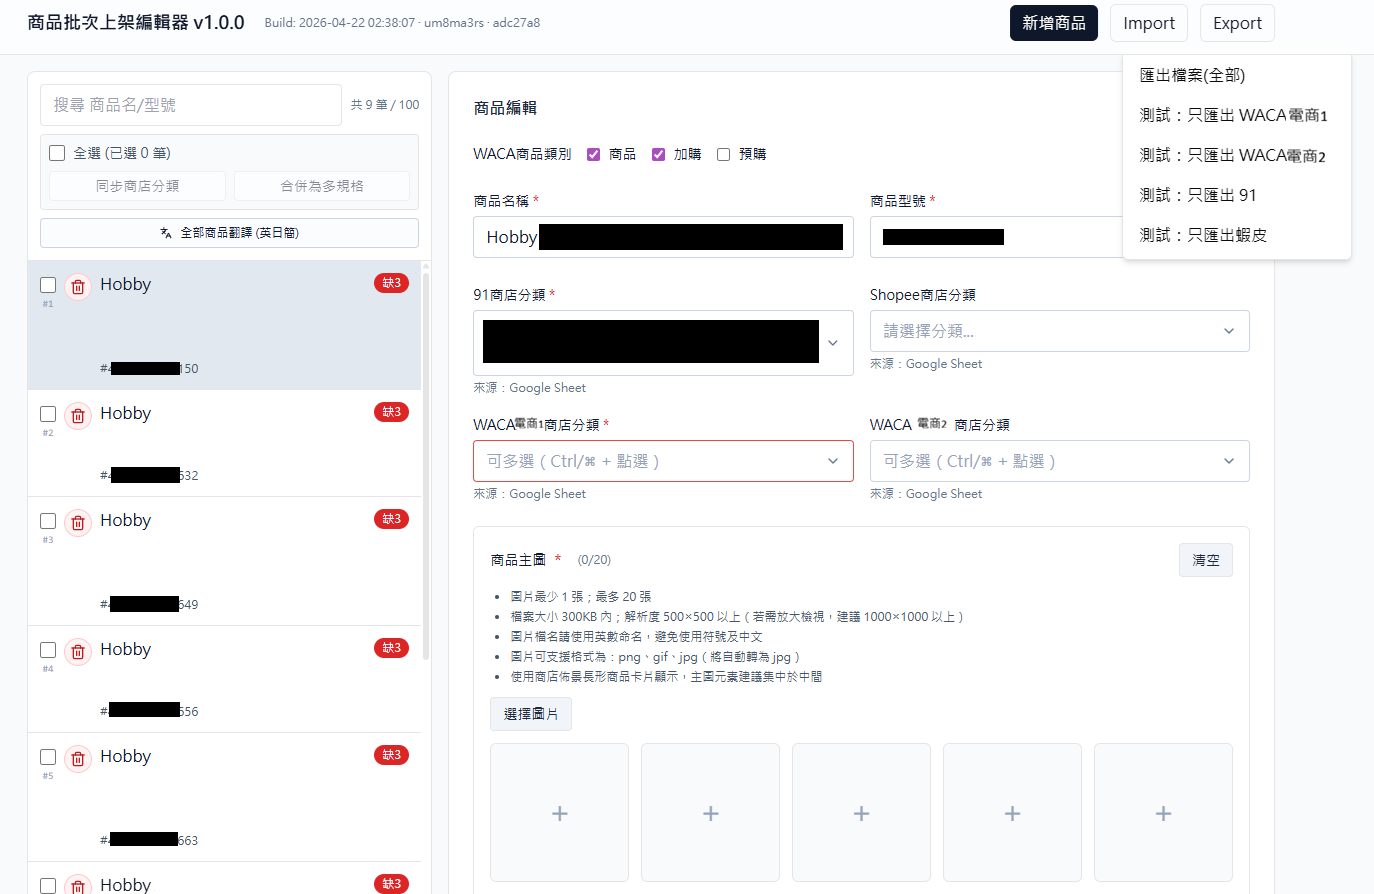
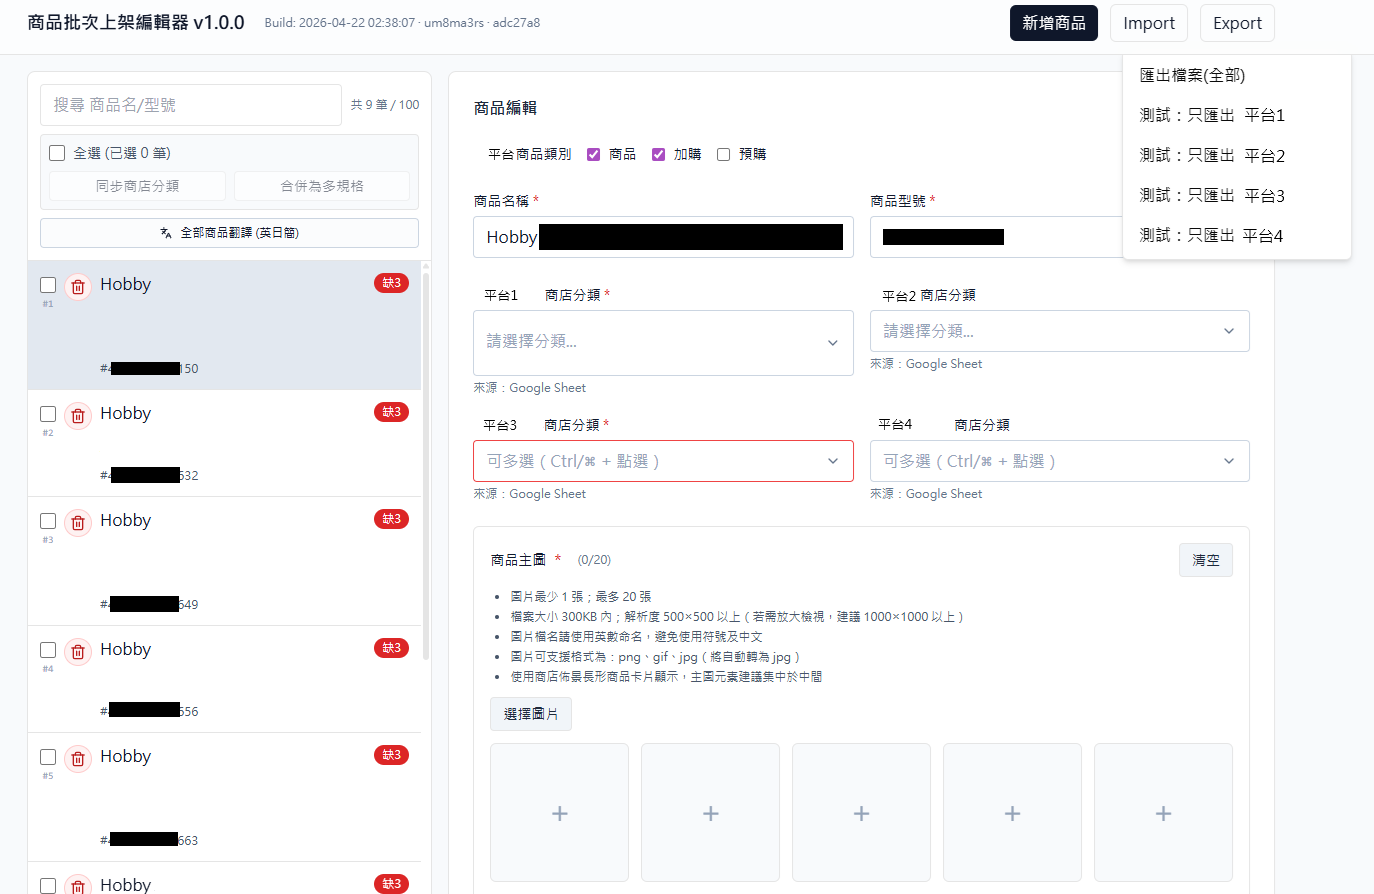
Replace platform names with codenames (平台1–4), fix page numbering (03–15/15)

diff --git a/index.html b/index.html
@@ -305,7 +305,7 @@
       </div>
       <div class="meta">
         <div><div class="k">Version</div><div class="v">v1.0.0 · um8ma3rs</div></div>
-        <div><div class="k">Platforms</div><div class="v">蝦皮 · WACA電商1 · WACA電商2 · 91APP</div></div>
+        <div><div class="k">Platforms</div><div class="v">平台1 · 平台2 · 平台3 · 平台4</div></div>
         <div><div class="k">Runtime</div><div class="v">Docker · auto-update</div></div>
       </div>
     </div>
@@ -313,7 +313,7 @@
       <div class="badge">One tool · four platforms</div>
       <div style="display:flex;flex-direction:column;gap:32px;z-index:1">
         <div class="h2" style="color:#F3EFE6;font-size:92px;line-height:1">九個<br>亮點<br><span style="color:var(--accent)">，逐一展開。</span></div>
-        <div style="font-family:var(--mono);font-size:22px;color:#8C96A6;letter-spacing:.14em">SHOPEE · WACA · 91APP</div>
+        <div style="font-family:var(--mono);font-size:22px;color:#8C96A6;letter-spacing:.14em">平台1 · 平台2 · 平台3 · 平台4</div>
       </div>
       <div class="blurb">從零開始，一個人設計架構、寫程式、測試、部署、維護——<br>根據實際業務一點一點刻出來的。</div>
     </div>
@@ -328,8 +328,8 @@
   </div>
 
   <div style="flex:1;display:grid;grid-template-columns:1fr 1fr 1fr;gap:28px;align-content:center">
-    <a style="text-decoration:none;color:inherit" class="card"><div class="idx">SPOTLIGHT · 01</div><h4>一鍵四平台匯出</h4><p>蝦皮 / WACA電商1 / WACA電商2 / 91APP — 一次產出四份檔案。</p></a>
-    <a style="text-decoration:none;color:inherit" class="card"><div class="idx">SPOTLIGHT · 02</div><h4>蝦皮定價機器人</h4><p>分段加成規則全自動套用，結尾自動進位到 0 / 5 / 9。</p></a>
+    <a style="text-decoration:none;color:inherit" class="card"><div class="idx">SPOTLIGHT · 01</div><h4>一鍵四平台匯出</h4><p>平台1 / 平台2 / 平台3 / 平台4 — 一次產出四份檔案。</p></a>
+    <a style="text-decoration:none;color:inherit" class="card"><div class="idx">SPOTLIGHT · 02</div><h4>平台1定價機器人</h4><p>分段加成規則全自動套用，結尾自動進位到 0 / 5 / 9。</p></a>
     <a style="text-decoration:none;color:inherit" class="card"><div class="idx">SPOTLIGHT · 03</div><h4>勾選就能合體</h4><p>多筆單規格 →「合併為多規格」按一下完成。</p></a>
     <a style="text-decoration:none;color:inherit" class="card"><div class="idx">SPOTLIGHT · 04</div><h4>批次改分類</h4><p>一筆設好，幾百筆四平台同步，一秒套用。</p></a>
     <a style="text-decoration:none;color:inherit" class="card"><div class="idx">SPOTLIGHT · 05</div><h4>圖片自動對號入座</h4><p>750px 規格化、FTP 上傳、ZIP 打包一條龍。</p></a>
@@ -346,7 +346,7 @@
 <section data-screen-label="02 Problem">
   <div class="frame-head">
     <div class="left"><span class="tag warn">Before</span><span class="eyebrow warn"><span class="dot"></span>你以為上架商品很簡單？</span></div>
-    <div class="kicker">00 / Problem</div>
+    <div class="kicker">03 / 15</div>
   </div>
 
   <div class="cols-5-7">
@@ -360,12 +360,12 @@
     </div>
 
     <div class="steps" style="align-self:center">
-      <div class="step"><span class="n">01</span><span class="t">登入蝦皮後台，一格一格填</span><span class="tail"></span></div>
-      <div class="step"><span class="n">02</span><span class="t">登入 WACA 電商1，重複一次</span><span class="tail"></span></div>
-      <div class="step"><span class="n">03</span><span class="t">登入 WACA 電商2，重複一次</span><span class="tail"></span></div>
-      <div class="step"><span class="n">04</span><span class="t">登入 91APP，重複一次</span><span class="tail"></span></div>
+      <div class="step"><span class="n">01</span><span class="t">登入平台1後台，一格一格填</span><span class="tail"></span></div>
+      <div class="step"><span class="n">02</span><span class="t">登入 平台2，重複一次</span><span class="tail"></span></div>
+      <div class="step"><span class="n">03</span><span class="t">登入 平台3，重複一次</span><span class="tail"></span></div>
+      <div class="step"><span class="n">04</span><span class="t">登入 平台4，重複一次</span><span class="tail"></span></div>
       <div class="step"><span class="n">05</span><span class="t">圖片上傳到四個地方</span><span class="tail">各種格式</span></div>
-      <div class="step"><span class="n">06</span><span class="t">套用蝦皮特殊定價規則</span><span class="tail">易算錯</span></div>
+      <div class="step"><span class="n">06</span><span class="t">套用平台1特殊定價規則</span><span class="tail">易算錯</span></div>
       <div class="step"><span class="n">07</span><span class="t">逐欄位確認沒有填錯</span><span class="tail">易遺漏</span></div>
     </div>
   </div>
@@ -377,7 +377,7 @@
 <section data-screen-label="03 Mission">
   <div class="frame-head">
     <div class="left"><span class="tag accent">Mission</span><span class="eyebrow"><span class="dot"></span>這套系統的任務</span></div>
-    <div class="kicker">03 / 15</div>
+    <div class="kicker">04 / 15</div>
   </div>
 
   <div style="flex:1;display:flex;flex-direction:column;justify-content:center;gap:80px">
@@ -399,7 +399,7 @@
       <div class="arr" style="color:var(--accent)">→</div>
       <div class="box">
         <div class="t">四份檔案同時下載</div>
-        <div class="s">蝦皮 / WACA電商1 / WACA電商2 / 91APP</div>
+        <div class="s">平台1 / 平台2 / 平台3 / 平台4</div>
       </div>
     </div>
   </div>
@@ -411,7 +411,7 @@
 <section data-screen-label="04 Spotlight 01 — 一鍵四平台">
   <div class="frame-head">
     <div class="left"><span class="tag accent">Spotlight 01</span><span class="eyebrow"><span class="dot"></span>一鍵四平台匯出</span></div>
-    <div class="kicker">04 / 15</div>
+    <div class="kicker">05 / 15</div>
   </div>
 
   <div class="cols-7-5">
@@ -421,23 +421,23 @@
 
       <div class="four">
         <div class="pform">
-          <span class="tag" style="background:var(--accent-soft);color:var(--accent);border:none">Shopee</span>
-          <div class="name">蝦皮</div>
+          <span class="tag" style="background:var(--accent-soft);color:var(--accent);border:none">平台1</span>
+          <div class="name">平台1</div>
           <div class="fmt">.xlsx 官方模板<br>112 欄位自動填</div>
         </div>
         <div class="pform">
-          <span class="tag" style="background:var(--accent-soft);color:var(--accent);border:none">WACA</span>
-          <div class="name">電商1</div>
+          <span class="tag" style="background:var(--accent-soft);color:var(--accent);border:none">平台2</span>
+          <div class="name">平台2</div>
           <div class="fmt">獨立欄位格式<br>自有圖片處理</div>
         </div>
         <div class="pform">
-          <span class="tag" style="background:var(--accent-soft);color:var(--accent);border:none">WACA</span>
-          <div class="name">電商2</div>
+          <span class="tag" style="background:var(--accent-soft);color:var(--accent);border:none">平台3</span>
+          <div class="name">平台3</div>
           <div class="fmt">獨立分類樹<br>品牌色：綠色主題</div>
         </div>
         <div class="pform">
-          <span class="tag" style="background:var(--accent-soft);color:var(--accent);border:none">91APP</span>
-          <div class="name">91APP</div>
+          <span class="tag" style="background:var(--accent-soft);color:var(--accent);border:none">平台4</span>
+          <div class="name">平台4</div>
           <div class="fmt">Excel + 圖片 ZIP<br>打包下載</div>
         </div>
       </div>
@@ -459,16 +459,16 @@
 </section>
 
 <!-- ========== 05 SPOTLIGHT 02 — PRICING BOT ========== -->
-<section data-screen-label="05 Spotlight 02 — 蝦皮定價機器人">
+<section data-screen-label="05 Spotlight 02 — 平台1定價機器人">
   <div class="frame-head">
-    <div class="left"><span class="tag accent">Spotlight 02</span><span class="eyebrow"><span class="dot"></span>蝦皮定價機器人</span></div>
-    <div class="kicker">05 / 15</div>
+    <div class="left"><span class="tag accent">Spotlight 02</span><span class="eyebrow"><span class="dot"></span>平台1定價機器人</span></div>
+    <div class="kicker">06 / 15</div>
   </div>
 
   <div class="cols-5-7">
     <div style="display:flex;flex-direction:column;gap:32px">
       <div class="h2">不是亂加價，<br>是<span style="color:var(--accent)">有邏輯</span>的漲。</div>
-      <div class="body-lg">蝦皮的定價規則跟其他平台不一樣，每一檔價格區間的加成方式都不同。寫在程式裡，每筆自動套用，<b>不會算錯，也不會忘記</b>。</div>
+      <div class="body-lg">平台1的定價規則跟其他平台不一樣，每一檔價格區間的加成方式都不同。寫在程式裡，每筆自動套用，<b>不會算錯，也不會忘記</b>。</div>
       <div class="callout">
         <div class="lb">Note</div>
         <div class="body" style="color:var(--ink);font-size:24px">規則如果要調整——改一個地方，全部商品立刻跟著更新。</div>
@@ -502,7 +502,7 @@
 <section data-screen-label="06 Spotlight 03 — 勾選就能合體">
   <div class="frame-head">
     <div class="left"><span class="tag accent">Spotlight 03</span><span class="eyebrow"><span class="dot"></span>勾選就能合體</span></div>
-    <div class="kicker">06 / 15</div>
+    <div class="kicker">07 / 15</div>
   </div>
 
   <div class="cols-5-7">
@@ -544,19 +544,19 @@
 <section data-screen-label="07 Spotlight 04 — 批次改分類">
   <div class="frame-head">
     <div class="left"><span class="tag accent">Spotlight 04</span><span class="eyebrow"><span class="dot"></span>批次改分類</span></div>
-    <div class="kicker">07 / 15</div>
+    <div class="kicker">08 / 15</div>
   </div>
 
   <div class="cols-7-5">
     <div style="display:flex;flex-direction:column;gap:24px">
       <div class="h2">100 個商品，<br><span class="num accent">1 秒</span>全部改好。</div>
-      <div class="body-lg">一款商品要同時維護四個分類（蝦皮、WACA電商1、WACA電商2、91APP）。<br>設好第一筆，勾選全部，一鍵同步——幾百筆都是一秒的事。</div>
+      <div class="body-lg">一款商品要同時維護四個分類（平台1、平台2、平台3、平台4）。<br>設好第一筆，勾選全部，一鍵同步——幾百筆都是一秒的事。</div>
 
       <div class="compare">
         <div class="col before" style="padding:28px;gap:12px">
           <h5>Before — 一筆一筆改</h5>
           <ul>
-            <li>改完蝦皮再改 WACA，再改 91APP</li>
+            <li>改完平台1再改平台2 / 平台3，再改平台4</li>
             <li>切換頁面、等待載入、確認儲存</li>
             <li>漏改一個平台就錯位</li>
           </ul>
@@ -593,7 +593,7 @@
 <section data-screen-label="08 Spotlight 05 — 圖片自動對號入座">
   <div class="frame-head">
     <div class="left"><span class="tag accent">Spotlight 05</span><span class="eyebrow"><span class="dot"></span>圖片自動對號入座</span></div>
-    <div class="kicker">08 / 15</div>
+    <div class="kicker">09 / 15</div>
   </div>
 
   <div class="cols-4-8">
@@ -628,12 +628,12 @@
 
       <div class="four" style="grid-template-columns:1fr 1fr">
         <div class="pform" style="gap:10px">
-          <span class="tag" style="background:var(--accent-soft);color:var(--accent);border:none;align-self:flex-start">WACA / 蝦皮</span>
+          <span class="tag" style="background:var(--accent-soft);color:var(--accent);border:none;align-self:flex-start">平台1 / 平台2 / 平台3</span>
           <div class="name" style="font-size:26px">需要 圖片網址</div>
           <div class="fmt">FTP 上傳圖床 → 建立「商品編號 → 網址」對應表 → 匯出時自動填入</div>
         </div>
         <div class="pform" style="gap:10px">
-          <span class="tag" style="background:var(--accent-soft);color:var(--accent);border:none;align-self:flex-start">91APP</span>
+          <span class="tag" style="background:var(--accent-soft);color:var(--accent);border:none;align-self:flex-start">平台4</span>
           <div class="name" style="font-size:26px">需要 ZIP 壓縮檔</div>
           <div class="fmt">系統自動打包成 ZIP 一起下載，平台直接吃</div>
         </div>
@@ -653,7 +653,7 @@
 <section data-screen-label="09 Spotlight 06 — HTML 編輯器 + 翻譯">
   <div class="frame-head">
     <div class="left"><span class="tag accent">Spotlight 06</span><span class="eyebrow"><span class="dot"></span>HTML 編輯器 + 免費翻譯一條龍</span></div>
-    <div class="kicker">09 / 15</div>
+    <div class="kicker">10 / 15</div>
   </div>
 
   <div class="cols-5-7" style="gap:60px;padding-bottom:60px">
@@ -664,7 +664,7 @@
 
       <div style="display:flex;flex-direction:column;gap:12px">
         <div class="card" style="padding:16px 24px;gap:4px"><div class="idx" style="font-size:16px">ABILITY · 01 · 文字樣式自由調整</div><p style="font-size:20px;margin:0">字體大小、顏色、粗體、對齊——全部可視化。</p></div>
-        <div class="card" style="padding:16px 24px;gap:4px"><div class="idx" style="font-size:16px">ABILITY · 02 · 品牌色自動切換</div><p style="font-size:20px;margin:0">電商2綠色主題、電商1預設色；輸出自動統一，不會貼錯。</p></div>
+        <div class="card" style="padding:16px 24px;gap:4px"><div class="idx" style="font-size:16px">ABILITY · 02 · 品牌色自動切換</div><p style="font-size:20px;margin:0">平台3綠色主題、平台2預設色；輸出自動統一，不會貼錯。</p></div>
         <div class="card" style="padding:16px 24px;gap:4px;background:var(--accent);color:#fff;border-color:var(--accent)"><div class="idx" style="color:rgba(255,255,255,.85);font-size:16px">ABILITY · 03 · 日文 / 簡中 翻譯 API</div><p style="font-size:20px;color:rgba(255,255,255,.95);margin:0">一鍵翻譯整份商品說明，完全不花錢——用免費額度。</p></div>
       </div>
     </div>
@@ -696,13 +696,13 @@
 <section data-screen-label="10 Spotlight 07 — 十分鐘跟上">
   <div class="frame-head">
     <div class="left"><span class="tag accent">Spotlight 07</span><span class="eyebrow"><span class="dot"></span>官方改格式？十分鐘內跟上</span></div>
-    <div class="kicker">10 / 15</div>
+    <div class="kicker">11 / 15</div>
   </div>
 
   <div class="cols-5-7">
     <div style="display:flex;flex-direction:column;gap:28px;justify-content:center">
       <div class="h2">不是靠運氣，<br>是靠<span class="accent">架構</span>。</div>
-      <div class="body-lg">這次蝦皮官方把「交通工具類型」欄位拿掉，從 113 欄縮成 112 欄。</div>
+      <div class="body-lg">這次平台1官方把「交通工具類型」欄位拿掉，從 113 欄縮成 112 欄。</div>
 
       <div style="display:flex;gap:40px;align-items:center;padding:32px 0;border-top:1px solid var(--rule);border-bottom:1px solid var(--rule)">
         <div class="stat sm"><div class="v" style="color:var(--warn);text-decoration:line-through 6px var(--warn)">113</div><div class="k">Before</div></div>
@@ -747,7 +747,7 @@
 <section data-screen-label="11 Spotlight 08 — Docker 自動更新">
   <div class="frame-head">
     <div class="left"><span class="tag accent">Spotlight 08</span><span class="eyebrow"><span class="dot"></span>Docker 啟動即更新</span></div>
-    <div class="kicker">11 / 15</div>
+    <div class="kicker">12 / 15</div>
   </div>
 
   <div class="cols-5-7">
@@ -799,7 +799,7 @@
 <section data-screen-label="12 Spotlight 09 — 測試不影響正式">
   <div class="frame-head">
     <div class="left"><span class="tag accent">Spotlight 09</span><span class="eyebrow"><span class="dot"></span>測試不影響正式</span></div>
-    <div class="kicker">12 / 15</div>
+    <div class="kicker">13 / 15</div>
   </div>
 
   <div class="cols-5-7">
@@ -860,7 +860,7 @@
 <section data-screen-label="13 Summary">
   <div class="frame-head">
     <div class="left"><span class="tag">System</span><span class="eyebrow"><span class="dot"></span>這不是一個工具，是一整套作業系統</span></div>
-    <div class="kicker">13 / 15</div>
+    <div class="kicker">14 / 15</div>
   </div>
 
   <div style="flex:1;display:flex;align-items:center">
@@ -869,8 +869,8 @@
         <tr><th>功能</th><th>說明</th></tr>
       </thead>
       <tbody>
-        <tr><td>四平台匯出</td><td>蝦皮、WACA 電商1、WACA 電商2、91APP 一鍵產出</td></tr>
-        <tr><td>自動定價</td><td>蝦皮定價規則全自動計算，不會出錯</td></tr>
+        <tr><td>四平台匯出</td><td>平台1、平台2、平台3、平台4 一鍵產出</td></tr>
+        <tr><td>自動定價</td><td>平台1定價規則全自動計算，不會出錯</td></tr>
         <tr><td>圖片管理</td><td>750px 規格化、FTP 上傳、ZIP 打包，一條龍</td></tr>
         <tr><td>多規格合體</td><td>勾選合併，四平台同步輸出</td></tr>
         <tr><td>批次套用分類</td><td>一筆設好，幾百筆一秒同步</td></tr>
@@ -889,7 +889,7 @@
 <section data-screen-label="14 Closing">
   <div class="frame-head">
     <div class="left"><span class="tag accent">Closing</span></div>
-    <div class="kicker">14 / 15</div>
+    <div class="kicker">15 / 15</div>
   </div>
 
   <div class="cols-5-7" style="align-items:center">
@@ -918,8 +918,8 @@
       <!-- next up card -->
       <div style="background:#fff;border:1px solid var(--rule);border-radius:14px;padding:28px;display:flex;flex-direction:column;gap:10px">
         <div class="eyebrow"><span class="dot"></span>Next up · 下一個想做的</div>
-        <div class="h3" style="font-size:44px">露天模板</div>
-        <div class="body" style="font-size:22px">延伸到露天拍賣平台，讓一次編輯覆蓋到五個通路。</div>
+        <div class="h3" style="font-size:44px">平台5</div>
+        <div class="body" style="font-size:22px">延伸到平台5，讓一次編輯覆蓋到五個通路。</div>
       </div>
 
       <div class="pills">

diff --git a/project-showcase.md b/project-showcase.md
@@ -8,12 +8,12 @@
 
 每次上架一款商品，你需要：
 
-- 登入蝦皮後台，一個欄位一個欄位填進去
-- 再登入 WACA 東海後台，重複一次
-- 再登入 WACA 格納庫後台，重複一次
-- 再登入 91APP 後台，重複一次
+- 登入平台1後台，一個欄位一個欄位填進去
+- 再登入 平台2後台，重複一次
+- 再登入 平台3後台，重複一次
+- 再登入 平台4 後台，重複一次
 - 上傳圖片到四個地方
-- 蝦皮的定價有一套特殊規則要套用（其他平台目前直接沿用原價）
+- 平台1的定價有一套特殊規則要套用（其他平台目前直接沿用原價）
 - 確認沒有欄位填錯
 
 很多人的做法是複製既有的賣場再修改，但這樣更危險——**舊欄位沒改到、舊圖片沒換掉、舊描述留著**，上架了才發現賣錯商品。
@@ -26,22 +26,22 @@
 
 ## 亮點一：「一鍵四平台」——四份資料同時產出，不用多按第二下
 
-過去要上架一款商品，得先登入蝦皮後台，一個欄位一個欄位貼上去；貼完再去 WACA 後台重複一次；再去 91APP 重複一次。欄位名稱不同、格式不同、連定價規則都不同。  
-現在：匯入商品資料 → 按下匯出 → 蝦皮、WACA、91APP 四份檔案同時下載完畢。
+過去要上架一款商品，得先登入平台1後台，一個欄位一個欄位貼上去；貼完再去平台2 / 平台3後台各重複一次；再去平台4重複一次。欄位名稱不同、格式不同、連定價規則都不同。  
+現在：匯入商品資料 → 按下匯出 → 平台1、平台2、平台3、平台4 四份檔案同時下載完畢。
 
 每個平台的規則全部寫死在系統裡：
 
-- **蝦皮**：產出官方規定的 xlsx 模板格式，112 個欄位全部自動填好
-- **WACA**：東海和格納庫各有一份，欄位格式、圖片處理、分類都不同，各自獨立產出
-- **91APP**：Excel 匯入檔 + 圖片 ZIP 壓縮檔，一次打包下載
+- **平台1**：產出官方規定的 xlsx 模板格式，112 個欄位全部自動填好
+- **平台2 / 平台3**：各有一份，欄位格式、圖片處理、分類都不同，各自獨立產出
+- **平台4**：Excel 匯入檔 + 圖片 ZIP 壓縮檔，一次打包下載
 
 **你不需要記任何平台規則，系統全部幫你記好了。**
 
 ---
 
-## 亮點二：「蝦皮定價機器人」——不是亂加價，是有邏輯的漲
+## 亮點二：「平台1定價機器人」——不是亂加價，是有邏輯的漲
 
-蝦皮的定價不能跟其他平台一樣，有一套調整邏輯：
+平台1的定價不能跟其他平台一樣，有一套調整邏輯：
 
 - 售價 < 1000 → 乘以 1.1
 - 售價 1000–5000 → 乘以 1.05
@@ -73,10 +73,10 @@
 
 ## 亮點四：「批次改分類」——100 個商品，一秒全部改好
 
-每個平台的分類樹都不一樣，而且一款商品要同時維護四個分類（蝦皮、WACA 東海、WACA 格納庫、91APP）。
+每個平台的分類樹都不一樣，而且一款商品要同時維護四個分類（平台1、平台2、平台3、平台4）。
 
 實際情境：新到一批玩具模型，全部都要掛到同一個子分類下。  
-以前：一筆一筆點進去改，改完蝦皮再改 WACA，再改 91APP，重複 N 次。  
+以前：一筆一筆點進去改，改完平台1再改平台2 / 平台3，再改平台4，重複 N 次。  
 現在：**把其中一筆的四個平台分類設好 → 全部打勾 → 按「同步商店分類」→ 全部同步完畢**。
 
 系統以第一筆勾選的商品分類為基準，一次套用到所有勾選商品，四個平台同步，**不管幾百筆都是一秒的事**。
@@ -90,8 +90,8 @@
 這套系統支援每款商品最多 **20 張圖片**，上傳後自動處理以下事情：
 
 - **統一規格**：每張圖片自動調整為 **750px 寬**，尺寸不足的補上白邊，格式統一轉成 **JPG**，不用事前用 Photoshop 一張一張改
-- **WACA、蝦皮**：需要的是圖片網址，系統透過 FTP 傳到圖床後，自動建立「商品編號 → 圖片網址」的對應表，匯出時自動填入正確欄位
-- **91APP**：需要的是圖片壓縮檔，系統自動把圖片打包成 ZIP 檔案一起下載，平台直接吃
+- **平台1 / 平台2 / 平台3**：需要的是圖片網址，系統透過 FTP 傳到圖床後，自動建立「商品編號 → 圖片網址」的對應表，匯出時自動填入正確欄位
+- **平台4**：需要的是圖片壓縮檔，系統自動把圖片打包成 ZIP 檔案一起下載，平台直接吃
 
 **上傳一次，四個平台各拿各需要的格式，不用複製，不會貼錯。**
 
@@ -111,7 +111,7 @@
 你可以做到：
 - 調整字體大小、顏色、粗體、對齊
 - 插入商品圖片到說明文內
-- 不同平台套用不同的品牌色（例如格納庫用綠色主題，東海用預設色）
+- 不同平台套用不同的品牌色（例如平台3用綠色主題，平台2用預設色）
 - 輸出時自動將顏色統一成該平台的設定，不會貼錯顏色
 
 另外，如果商品說明需要日文或簡體中文版本，系統可以直接呼叫翻譯 API 自動產出——**而且完全不花錢，用的是免費額度**。
@@ -120,7 +120,7 @@
 
 ## 亮點七：「官方改格式？十分鐘內跟上」——不是靠運氣，是靠架構
 
-電商平台的官方匯入格式會不定期異動。以這次為例，蝦皮官方移除了「交通工具類型」欄位，從 113 欄縮成 112 欄。
+電商平台的官方匯入格式會不定期異動。以這次為例，平台1官方移除了「交通工具類型」欄位，從 113 欄縮成 112 欄。
 
 如果系統設計不好，這種改動可能要花好幾個小時找哪裡壞掉。  
 因為這套系統的架構設計清楚——每個平台的欄位定義、模板檔案、資料填入邏輯各自獨立——這次的修改只需要：
@@ -164,8 +164,8 @@
 
 | 功能 | 說明 |
 |------|------|
-| 四平台匯出 | 蝦皮、WACA 東海、WACA 格納庫、91APP |
-| 自動定價 | 蝦皮定價規則全自動計算，不出錯 |
+| 四平台匯出 | 平台1、平台2、平台3、平台4 |
+| 自動定價 | 平台1定價規則全自動計算，不出錯 |
 | 圖片管理 | 750px 規格化、FTP 上傳、ZIP 打包，一條龍 |
 | 多規格合體 | 勾選合併，四平台同步輸出 |
 | 批次套用分類 | 一筆設好，幾百筆一秒同步 |
